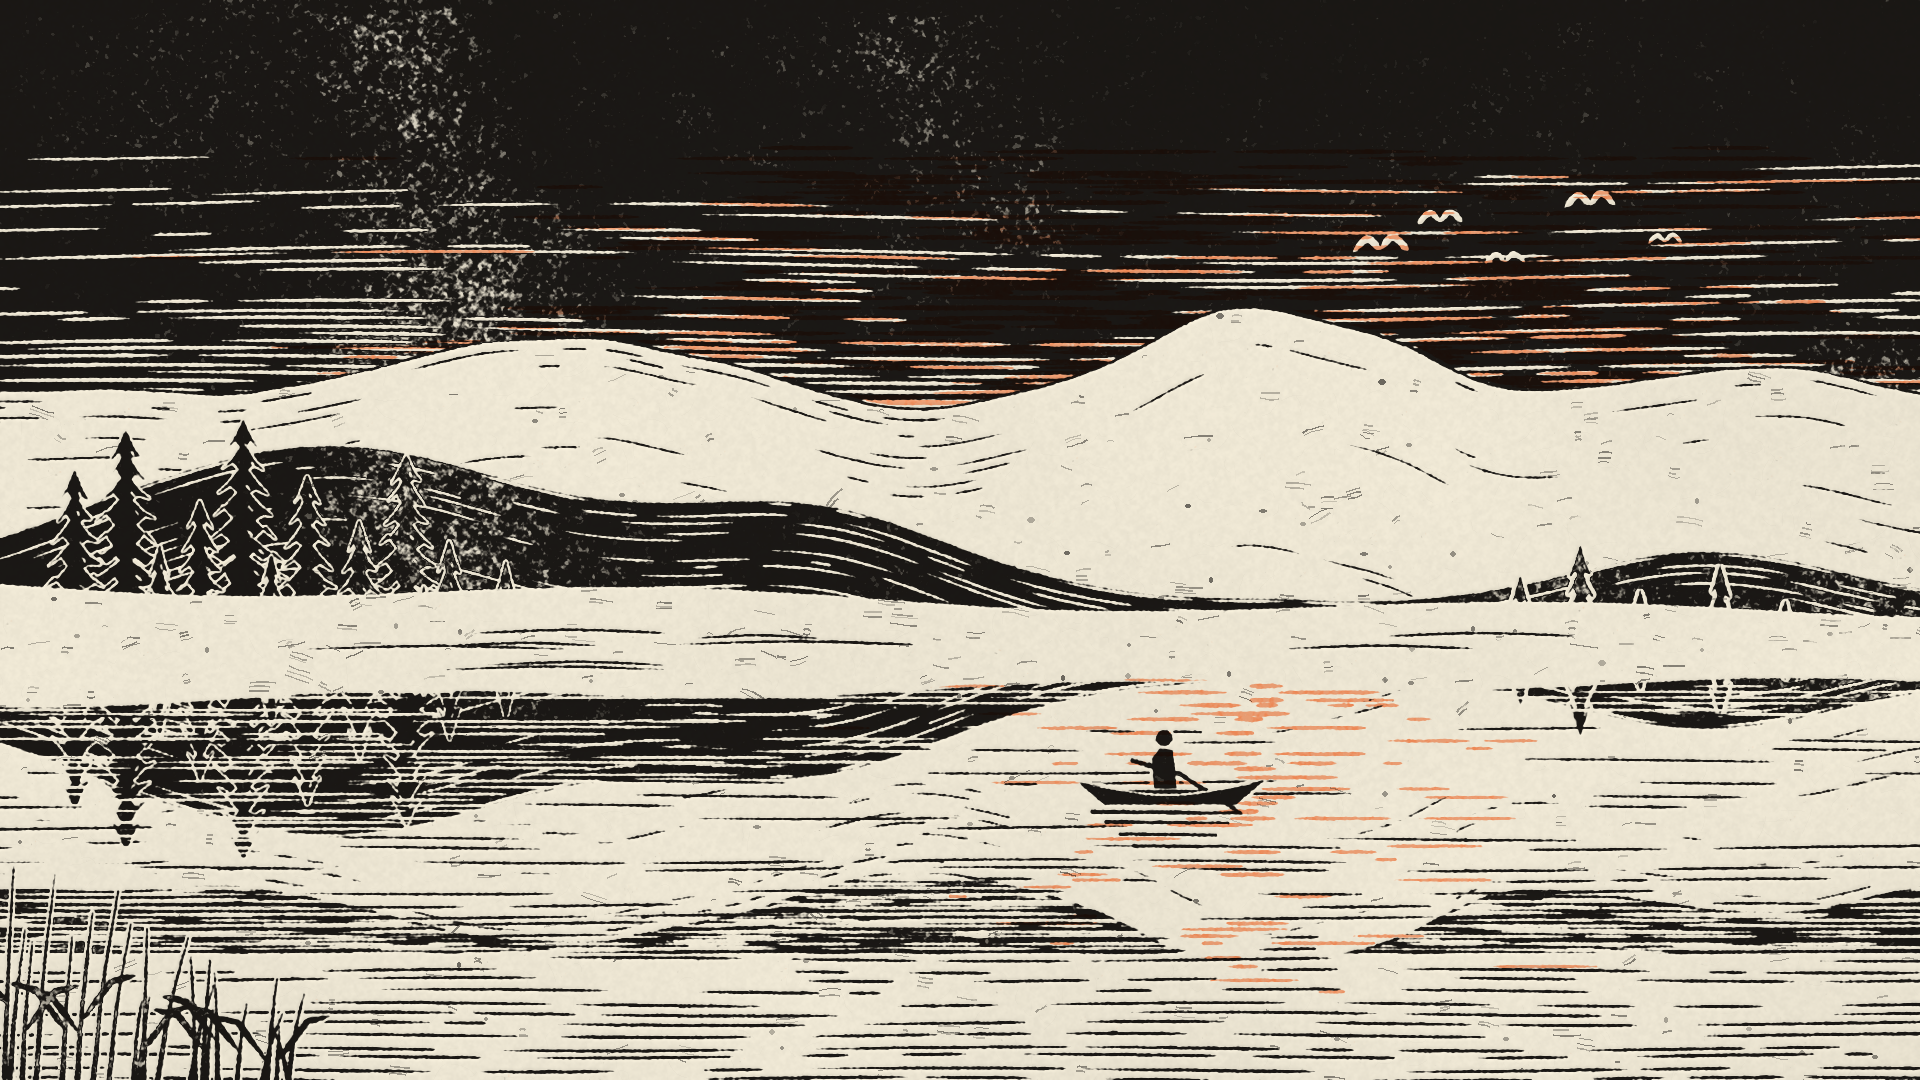
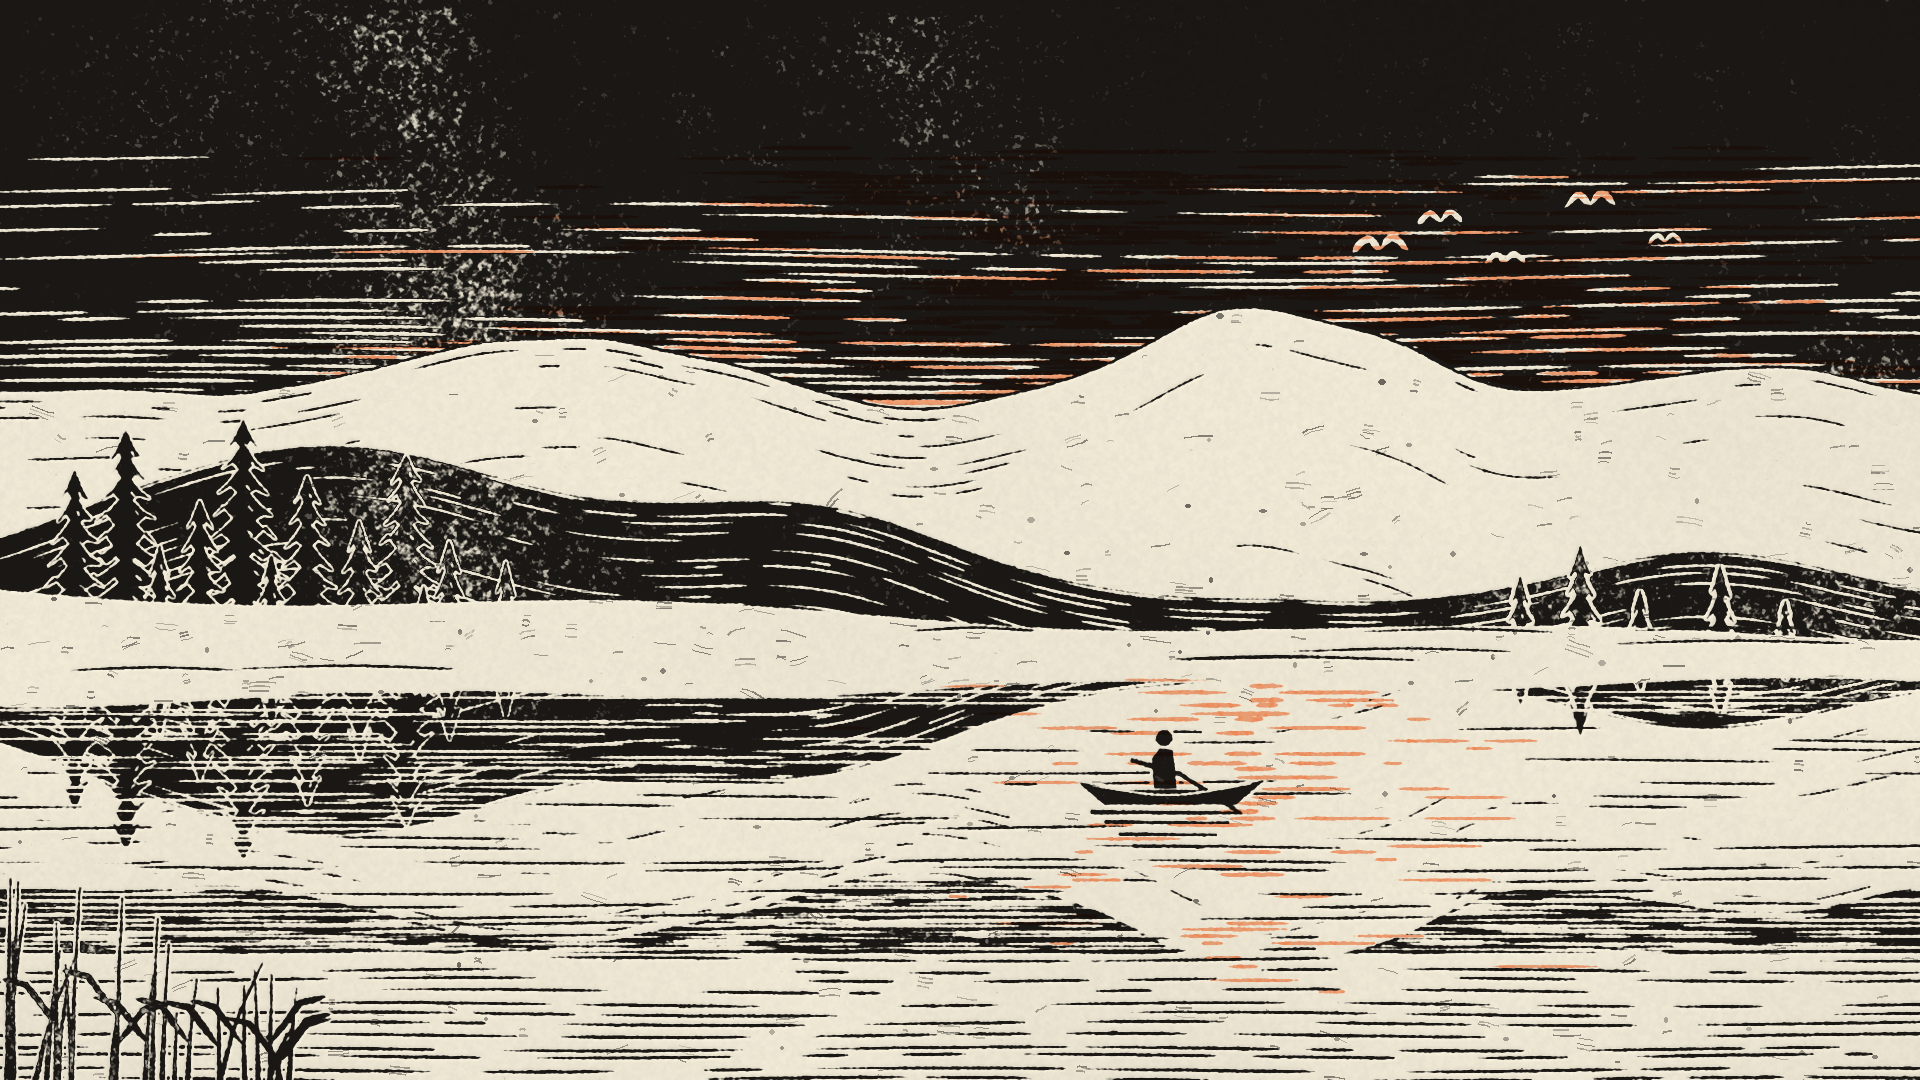
Style audit: ink wash, watercolour, ukiyo-e, linocut lake scenes
Claude-Session: https://claude.ai/code/session_0187TScAsibyUB6sRnUNkhqD

Changed region(s): [[0.0, 0.5194, 1.0, 0.6417], [0.0, 0.825, 0.1875, 1.0], [0.125, 0.6111, 0.1875, 0.6417]]

diff --git a/painted-styles/scripts/scenes/delft_lake.py b/painted-styles/scripts/scenes/delft_lake.py
@@ -1,0 +1,198 @@
+"""Mountain lake at dusk — Delft tiles: one cobalt tile picture covering the whole wall (16 x 9 tiles)."""
+import os
+import sys
+import time
+
+sys.path.insert(0, os.path.join(os.path.dirname(os.path.abspath(__file__)), '..'))
+import drawkit  # noqa: E402  (sets sys.path to the skill lib)
+from drawkit import Scaler, seed_all, save_png  # noqa: E402
+
+import numpy as np  # noqa: E402
+from delft import DelftTile, ellipse_pts  # noqa: E402
+
+STYLE = "Delft tiles"
+LIB = "delft"
+
+HORIZON = 640.0
+
+
+def far_ridge(x):
+    return (420 - 118 * np.exp(-((x - 1250) / 230) ** 2) - 70 * np.exp(-((x - 760) / 190) ** 2)
+            - 55 * np.exp(-((x - 260) / 200) ** 2) - 62 * np.exp(-((x - 1700) / 170) ** 2)
+            + 6 * np.sin(x / 47.0) + 3 * np.sin(x / 19.0 + 1.3))
+
+
+def near_ridge(x):
+    return (612 - 160 * np.exp(-((x - 400) / 430) ** 2) - 62 * np.exp(-((x - 980) / 170) ** 2)
+            - 52 * np.exp(-((x - 1760) / 190) ** 2) + 7 * np.sin(x / 33.0) + 4 * np.sin(x / 14.0 + 0.7))
+
+
+PINES = [(85, 470, 46, 652), (170, 422, 58, 656), (255, 495, 44, 652), (330, 440, 54, 656),
+         (410, 515, 40, 651), (470, 478, 46, 654), (520, 552, 32, 650),
+         (1530, 578, 26, 646), (1592, 552, 30, 647), (1652, 590, 22, 645), (1765, 566, 28, 646)]
+
+
+def pine_outline(cx, top, hw, root):
+    h = root - top
+    tiers = 4 if h > 120 else 3
+    left, right = [], []
+    for t in range(tiers):
+        y_tip = top + h * 0.86 * (t + 1) / tiers
+        y_in = top + h * 0.86 * (t + 0.72) / tiers
+        w = hw * (t + 1) / tiers
+        left += [(cx - w * 0.5, y_in), (cx - w, y_tip)]
+        right += [(cx + w * 0.5, y_in), (cx + w, y_tip)]
+    yb = top + h * 0.86
+    tw = max(4, hw * 0.1)
+    return [(cx, top)] + right + [(cx + tw, yb), (cx + tw, root), (cx - tw, root), (cx - tw, yb)] + left[::-1]
+
+
+def paint(W=1920, H=1080, seed=1, stages_dir=None):
+    seed_all(seed)
+    S = Scaler(W, H)
+    s = S.s
+    tile = 120 * s                                            # 16 x 9 tiles at every resolution
+    t = DelftTile(W, H, seed=seed, tile=tile, joint=3.6 * s, origin=(0, 0))
+    t.tableau(0, 0, 16, 9)                                    # the whole wall is one tile picture
+    rng = np.random.default_rng(seed + 3)
+    w = lambda v: v * s                                       # brush widths scale with the picture
+    P = lambda pts: np.asarray(S.pts(pts), np.float32)
+    t.layer('picture')
+
+    # ------------------------------------------------------------ front to back
+    # reeds in the lower-left corner
+    t.grass(S(0), S(300), S(1074), n=9, h=S(70), lean=0.35, width=w(1.5), dens=0.9, yspread=S(8))
+    t.grass(S(10), S(240), S(1050), n=6, h=S(46), lean=0.5, width=w(1.3), dens=0.8, yspread=S(6))
+    for k in range(4):                                        # bulrush heads
+        x, y = 40 + k * 62 + rng.uniform(-10, 10), 978 + rng.uniform(-14, 14)
+        head = ellipse_pts(*S.pt(x, y), S(4.5), S(13), 0.15, 14)
+        t.closed(head, w(1.4))
+        t.wash(head, 0.5, slip=0.3, pool=0.3)
+        t.trek(P([(x - 2, y + 13), (x - 6, 1080)]), w(1.4), taper=(0.05, 0.1))
+        t.occlude(head)
+    t.occlude(P([(0, 935), (300, 935), (300, 1080), (0, 1080)]), grow=0)
+
+    # the rowing boat, rower seated, oars dipping
+    BX, BY = 1080.0, 800.0
+    hull = P([(BX - 6, BY - 24), (BX + 40, BY - 16), (BX + 100, BY - 13), (BX + 160, BY - 16), (BX + 190, BY - 30),
+              (BX + 176, BY - 6), (BX + 150, BY + 4), (BX + 40, BY + 4), (BX + 12, BY - 6)])
+    hx, hy = S.pt(BX + 92, BY - 70)
+    t.closed(ellipse_pts(hx, hy, S(8), S(9), 0, 18), w(1.6))
+    t.trek(P([(BX + 80, BY - 72), (BX + 92, BY - 84), (BX + 106, BY - 74)]), w(1.8), smooth=True)        # cap
+    body = P([(BX + 76, BY - 18), (BX + 80, BY - 58), (BX + 104, BY - 58), (BX + 110, BY - 18)])
+    t.trek(np.vstack([body, body[:1]]), w(1.7))
+    t.wash(body, 0.4, slip=0.4, pool=0.5, angle=-1.3)
+    t.occlude(np.vstack([body, ellipse_pts(hx, hy, S(9), S(10), 0, 18)]))
+    for (a, b) in [((BX + 84, BY - 44), (BX + 18, BY + 26)), ((BX + 102, BY - 44), (BX + 168, BY + 26))]:
+        t.trek(P([a, b]), w(2.2), smooth=False, taper=(0.05, 0.05))
+        blade = ellipse_pts(*S.pt(b[0] + (6 if b[0] > BX + 90 else -6), b[1] + 6), S(14), S(4.5), 0.5 if b[0] > BX + 90 else -0.5, 14)
+        t.wash(blade, 0.45, slip=0.3)
+    t.trek(hull[:5], w(2.2), taper=(0.02, 0.05))
+    t.trek(np.vstack([hull[4:], hull[:1]]), w(2.0), taper=(0.02, 0.05))
+    t.trek(P([(BX + 6, BY - 12), (BX + 100, BY - 4), (BX + 180, BY - 14)]), w(1.0), 0.8, pounce=False)
+    t.wash(hull, 0.42, angle=0.0, pool=0.5)
+    t.hatch(hull, angle=0.0, spacing=S(3.6), width=w(0.8), dens=0.6)
+    t.occlude(hull)
+    t.reflection(S(BX + 92), S(BY + 6), S(170), S(52), step=S(6), width=w(1.6), dens=0.75)
+
+    # pines: outlined tiers, branch dashes on the shade side, a dark wash
+    pine_polys = []
+    for (cx, top, hw, root) in PINES:
+        poly = P(pine_outline(cx, top, hw, root))
+        pine_polys.append(poly)
+        t.trek(np.vstack([poly, poly[:1]]), w(1.7), taper=(0.02, 0.02))
+        h = root - top
+        tiers = 4 if h > 120 else 3
+        for k in range(tiers):
+            y_tip = top + h * 0.86 * (k + 1) / tiers
+            ww = hw * (k + 1) / tiers
+            for j in range(3):
+                yy = y_tip - (j + 1) * h * 0.86 / tiers * 0.22
+                t.trek(P([(cx + ww * 0.15, yy - 4), (cx + ww * (0.5 + 0.12 * j), yy)]), w(1.0), 0.8, pounce=False,
+                       taper=(0.1, 0.6))
+        t.wash(poly, 0.36, angle=-np.pi / 2, pool=0.5, slip=0.8)
+        t.reflection(S(cx), S(HORIZON + 2), S(hw * 1.5), S((root - top) * 0.55), step=S(5.5), width=w(1.4), dens=0.7)
+    t.occlude(pine_polys)
+
+    # mist: kept as bare white glaze, a soft band over the far shore, thicker at the left
+    xs = np.linspace(-10, 1930, 50)
+    thick = 46 * (1 - 0.75 * xs / 1920) + 8 * np.sin(xs / 85.0)
+    mist = P(list(zip(xs, 636 - thick * 0.5 + 5 * np.sin(xs / 51.0))) +
+             list(zip(xs[::-1], (650 + thick * 0.55 + 4 * np.sin(xs / 37.0 + 1))[::-1])))
+    for k in range(5):                                        # a few drifting wisp lines at the mist's edges
+        x0 = 60 + k * 330 + rng.uniform(-30, 30)
+        yv = 628 - 14 * (1 - x0 / 1920) + rng.uniform(-6, 6)
+        t.trek(P([(x0, yv), (x0 + 90, yv - 3), (x0 + 200, yv + 1)]), w(0.9), 0.45, pounce=False, taper=(0.3, 0.4))
+    t.occlude(mist, grow=0)
+
+    # water: ripples (fine far away, bold near), then a wash that darkens toward the viewer
+    t.water(0, W, S(HORIZON + 4), H, width=w(1.6), dens=0.8, far=S(4.0), near=S(13), avoid=t.occ, waves=0.7 * s)
+    water = P([(-5, HORIZON), (1925, HORIZON), (1925, 1085), (-5, 1085)])
+    t.wash(water, 0.12, angle=0.0, pool=0.3, band=S(11), grad=(S.pt(960, HORIZON), S.pt(960, 1080), 0.5, 1.6))
+    nr = np.linspace(0, 1920, 60)                             # the near range mirrored: a darker wash band
+    refl = P(list(zip(nr, HORIZON + (HORIZON - near_ridge(nr)) * 0.7)) + [(1920, HORIZON), (0, HORIZON)])
+    t.hatch(refl, angle=0.0, spacing=S(4.2), width=w(0.9), dens=0.55, wave=0.6 * s)
+    t.occlude(water, grow=0)
+
+    # near range: outline, wash darkening toward its foot, hatched shade on the slopes away from the glow
+    xs = np.linspace(-10, 1930, 140)
+    ridge = P(list(zip(xs, near_ridge(xs))))
+    t.trek(ridge, w(2.0), taper=(0.01, 0.01))
+    near = np.vstack([ridge, P([(1930, HORIZON + 2), (-10, HORIZON + 2)])])
+    t.wash(near, 0.24, angle=0.0, pool=0.4, grad=(S.pt(400, 450), S.pt(400, HORIZON), 0.7, 1.3))
+    for (x0, x1) in [(20, 380), (980, 1150), (1760, 1910)]:
+        seg = [(x, near_ridge(x) + 6) for x in np.linspace(x0, x1, 12)]
+        poly = P(seg + [(x1, HORIZON), (x0, HORIZON)])
+        t.hatch(poly, angle=1.1, spacing=S(5), width=w(0.9), dens=0.6)
+    t.occlude(near, grow=0)
+
+    # far range: a pale wash, a light outline, a few crevices
+    ridge = P(list(zip(xs, far_ridge(xs))))
+    t.trek(ridge, w(1.6), 0.85, taper=(0.01, 0.01))
+    far = np.vstack([ridge, P([(1930, HORIZON), (-10, HORIZON)])])
+    t.wash(far, 0.09, angle=0.0, pool=0.4)
+    for (x, y, dx, dy) in [(1250, 310, -70, 120), (1250, 310, 80, 110), (760, 352, -40, 90), (1700, 360, 40, 80),
+                           (260, 368, 30, 70)]:
+        t.trek(P([(x, y + 8), (x + dx * 0.5, y + dy * 0.45), (x + dx, y + dy)]), w(1.1), 0.7, pounce=False, taper=(0.1, 0.8))
+    t.hatch(P([(x, far_ridge(x) + 8) for x in np.linspace(1262, 1460, 10)] + [(1460, 520), (1262, 520)]),
+            angle=1.2, spacing=S(5.5), width=w(0.8), dens=0.5)
+    t.occlude(far, grow=0)
+
+    # sky: birds, one long low cloud bank, then the dusk wash -- darkest overhead, the glow left white
+    t.birds([S.pt(*p) for p in [(1420, 210), (1490, 248), (1565, 192), (1630, 270), (1370, 282)]], size=S(15),
+            width=w(1.8), tilt=0.2)
+    t.cloud(S(560), S(225), S(380), S(70), lean=0.35, tone=0.12, width=w(1.6), seed=seed + 20)
+    sky = P([(-5, -5), (1925, -5), (1925, HORIZON), (-5, HORIZON)])
+    glow = ellipse_pts(*S.pt(1240, 400), S(380), S(150), 0, 60)
+    t.wash(sky, 0.3, angle=0.0, pool=0.2, band=S(14), grad=(S.pt(960, 0), S.pt(960, 470), 1.0, 0.12), holes=[glow])
+    t.wash(glow, 0.03, angle=0.0, pool=0.2)
+    t.hatch(P([(0, 0), (1920, 0), (1920, 120), (0, 120)]), angle=0.0, spacing=S(6), width=w(0.8), dens=0.45)
+    t.clear_occlusion()
+
+    # ------------------------------------------------------------ the workshop
+    if stages_dir:
+        t.stage('tiles', hide=('*',))
+        t.stage('pounce', hide=('trek', 'wash'))
+        t.stage('outline', hide=('wash',))
+    t.fire()
+    if stages_dir:
+        t.stage('fired')
+    t.set_wall()
+    t.age(craze=0.8, chips=6, specks=0.8, nails=0.3, dirt=0.8)
+    t.light(window=(S(300), S(120), S(110), S(150)), strength=0.35, soft=6.0 * s)
+    img = t.composite()
+    if stages_dir:
+        os.makedirs(stages_dir, exist_ok=True)
+        for i, (name, im) in enumerate(t.stages):
+            save_png(im, os.path.join(stages_dir, '%02d_%s.png' % (i, name)))
+    return img
+
+
+if __name__ == "__main__":
+    out = sys.argv[1] if len(sys.argv) > 1 else 'delft_lake.png'
+    W = int(sys.argv[2]) if len(sys.argv) > 2 else 1920
+    H = int(sys.argv[3]) if len(sys.argv) > 3 else 1080
+    t0 = time.perf_counter()
+    im = paint(W, H)
+    print('paint %.2fs' % (time.perf_counter() - t0))
+    save_png(im, out)

diff --git a/painted-styles/scripts/scenes/linocut_lake.py b/painted-styles/scripts/scenes/linocut_lake.py
@@ -123,7 +123,7 @@ def paint(W=1920, H=1080, seed=1, stages_dir=None):
     L.stage('water', blocks=KEY)
 
     # ---- mist: a band carved white across the waterline, thicker at left, with a few wisps left standing
-    mtop = [(x, 610 - 26 * max(0, 1 - x / 1500) + 8 * np.sin(x / 140)) for x in np.linspace(-20, 1940, 40)]
+    mtop = [(x, 634 - 44 * max(0, 1 - x / 1500) + 8 * np.sin(x / 140)) for x in np.linspace(-20, 1940, 40)]
     mbot = [(x, 684 + 18 * max(0, 1 - x / 1400) + 6 * np.sin(x / 110 + 1)) for x in np.linspace(1940, -20, 40)]
     mist = L.poly(spline(S.pts(mtop), 6).tolist() + spline(S.pts(mbot), 6).tolist())
     L.clear(mist, chatter=0.25, angle=0)

diff --git a/painted-styles/docs/audit_agent_notes.md b/painted-styles/docs/audit_agent_notes.md
@@ -14,3 +14,11 @@ Clean flat pastel dusk, light blooms, bokeh, rounded pines; pleasant but generic
 Cheerful kids'-book page, gouache washes on warm paper; sky banded into 4 hard stripes (no gradient primitive), cartoon sun reads afternoon not dusk, mist a hard strip, crayon dashes on hills. Resolution-independent (scales internally). 10 keyframes.
 ## pencilbook — 72.2s
 Richest texture: layered coloured pencil, stroke-built reflections; upper sky daytime blue, mountains low-contrast streaky, orange rim streaks on near ridge; look shifts between 960 and 1080 (fixed-px paper/flow scales). Slowest. 10 stages.
+## inkwash — 30.4s
+Calm readable sumi-e lake, faint vermilion glow, good mist & pine reflections; pines look like Christmas-tree icons, water dashes mechanical; dusk only a thin vermilion tint. Many px-fixed sizes (wash rim, mist noise, cun, moss). 10 stages.
+## watercolour — 87.4s (contended)
+Most saleable of its group: soft violet-peach dusk, hazy ranges, believable reflections, nice mist; pines flat/samey, birds blobby. Paper tooth px-fixed (sandpaper at small sizes); colours muddy if over-glazed. 10 stages.
+## ukiyoe — 77.9s (contended)
+Clear flat woodblock dusk with mist bands, but feels more vector than print; wood grain barely visible, reflections flat bars, square-cap ticks on key outlines; registration shift leaves bare-paper strips at full-bleed edges (worked around). 9 stages.
+## linocut — 29.8s
+Strong, graphic, genuinely print-like; carved black sky streaks, orange afterglow block, good boat/reflection; far range reads snowy, left pines busy, right pines tiny; baren low-pressure blotches in black sky read as artefacts; dark and heavy. 10 stages.
